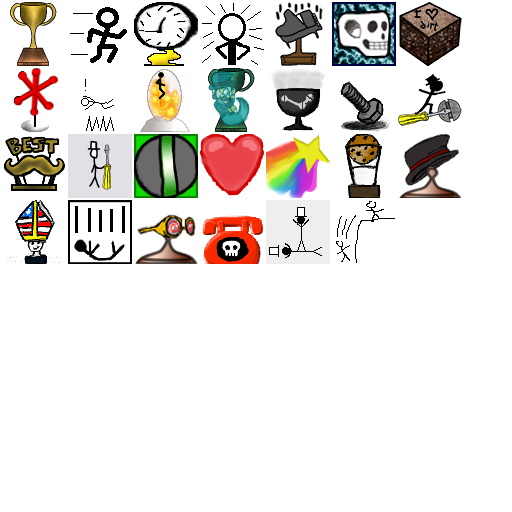
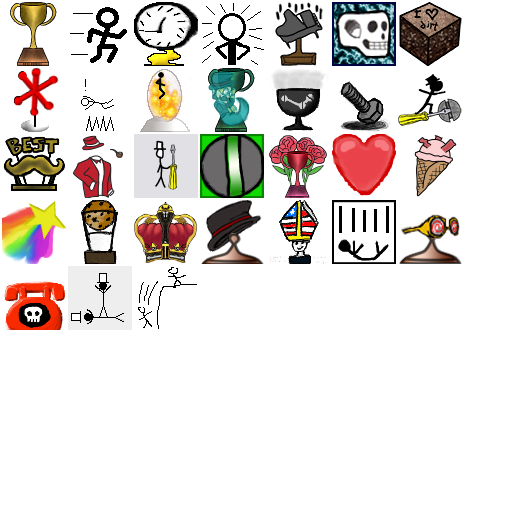
Added four more trophy images.

Changed region(s): [[0.0, 0.25, 0.9062, 0.6562], [0.2812, 0.5625, 0.3125, 0.6562]]

diff --git a/werescrewed/src/com/blindtigergames/werescrewed/screens/TrophyScreen.java b/werescrewed/src/com/blindtigergames/werescrewed/screens/TrophyScreen.java
@@ -527,9 +527,7 @@ public class TrophyScreen extends Screen {
 			} else if ( playerNum == 2 ) {
 				player2[ index ] = new Label( "Best Dressed", fancyFont );
 				player2Desc[index] = new Label("????", smallerFont);
-				Texture icon = WereScrewedGame.manager.get( WereScrewedGame.dirHandle
-						+ "/common/trophies/trophy.png", Texture.class );
-				trophies2[ index ] = new Sprite ( icon );
+				trophies2[ index ] = texAtlas.createSprite("trophy21b");
 				trophyIndices[ trophyLength + index ] = trophyNum;
 			}
 			break;
@@ -562,17 +560,13 @@ public class TrophyScreen extends Screen {
 		case 24: // Random 4
 			if ( playerNum == 1 ) {
 				player1[ index ] = new Label( "Most Popular", fancyFont );
-				Texture icon = WereScrewedGame.manager.get( WereScrewedGame.dirHandle
-						+ "/common/trophies/trophy.png", Texture.class );
 				player1Desc[index] = new Label("????", smallerFont);
-				trophies1[ index ] = new Sprite ( icon );
+				trophies1[ index ] = texAtlas.createSprite("trophy24");
 				trophyIndices[ index ] = trophyNum;
 			} else if ( playerNum == 2 ) {
 				player2[ index ] = new Label( "Most Popular", fancyFont );
 				player2Desc[index] = new Label("????", smallerFont);
-				Texture icon = WereScrewedGame.manager.get( WereScrewedGame.dirHandle
-						+ "/common/trophies/trophy.png", Texture.class );
-				trophies2[ index ] = new Sprite ( icon );
+				trophies2[ index ] = texAtlas.createSprite("trophy24");
 				trophyIndices[ trophyLength + index ] = trophyNum;
 			}
 			break;
@@ -593,16 +587,12 @@ public class TrophyScreen extends Screen {
 			if ( playerNum == 1 ) {
 				player1[ index ] = new Label( "Better Than \n Bacon Ice Cream", fancyFont );
 				player1Desc[index] = new Label("????", smallerFont);
-				Texture icon = WereScrewedGame.manager.get( WereScrewedGame.dirHandle
-						+ "/common/trophies/trophy.png", Texture.class );
-				trophies1[ index ] = new Sprite ( icon );
+				trophies1[ index ] = texAtlas.createSprite("trophy26");
 				trophyIndices[ index ] = trophyNum;
 			} else if ( playerNum == 2 ) {
 				player2[ index ] = new Label( "Better Than \n Bacon Ice Cream", fancyFont );
 				player2Desc[index] = new Label("????", smallerFont);
-				Texture icon = WereScrewedGame.manager.get( WereScrewedGame.dirHandle
-						+ "/common/trophies/trophy.png", Texture.class );
-				trophies2[ index ] = new Sprite ( icon );
+				trophies2[ index ] = texAtlas.createSprite("trophy26");
 				trophyIndices[ trophyLength + index ] = trophyNum;
 			}
 			break;
@@ -638,16 +628,12 @@ public class TrophyScreen extends Screen {
 			if ( playerNum == 1 ) {
 				player1[ index ] = new Label( "Supremely Screwy", fancyFont );
 				player1Desc[index] = new Label("????", smallerFont);
-				Texture icon = WereScrewedGame.manager.get( WereScrewedGame.dirHandle
-						+ "/common/trophies/trophy.png", Texture.class );
-				trophies1[ index ] = new Sprite ( icon );
+				trophies1[ index ] = texAtlas.createSprite("trophy29");
 				trophyIndices[ index ] = trophyNum;
 			} else if ( playerNum == 2 ) {
 				player2[ index ] = new Label( "Supremely Screwy", fancyFont );
 				player2Desc[index] = new Label("????", smallerFont);
-				Texture icon = WereScrewedGame.manager.get( WereScrewedGame.dirHandle
-						+ "/common/trophies/trophy.png", Texture.class );
-				trophies2[ index ] = new Sprite ( icon );
+				trophies2[ index ] = texAtlas.createSprite("trophy29");
 				trophyIndices[ trophyLength + index ] = trophyNum;
 			}
 			break;
